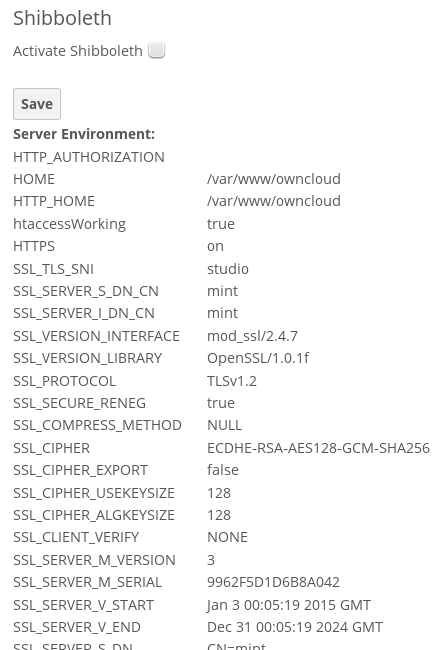
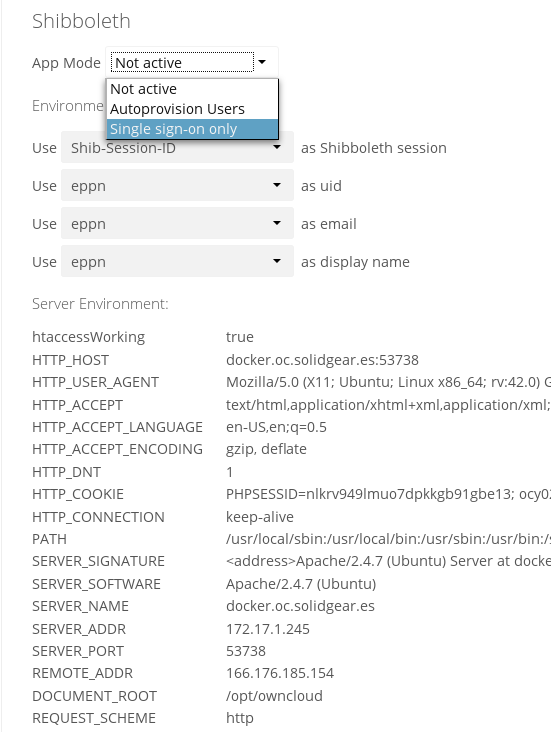
updates to shibboleth page

Changed region(s): [[0.0293, 0.0, 1.0, 1.0], [0.5563, 0.1846, 0.8198, 0.2154], [0.4392, 0.0615, 0.4685, 0.0923]]

diff --git a/admin_manual/enterprise_user_management/user_auth_shibboleth.rst b/admin_manual/enterprise_user_management/user_auth_shibboleth.rst
@@ -9,18 +9,28 @@ The ownCloud Shibboleth user backend application integrates ownCloud with a
 Shibboleth Service Provider (SP) and allows operations in federated and 
 single-sign-on infrastructures. Setting up Shibboleth has three steps:
 
-1. Create the appropriate Apache configuration
-2. Enable the Shibboleth app
-3. Enable Shibboleth on your ownCloud admin page
+1. Create the appropriate Apache configuration.
+2. Enable the Shibboleth app.
+3. Map Shibboleth environment variables to ownCloud attributes.
 
 Currently supported installations are based on the `native Apache integration`_ 
 . The individual configuration of the service provider is highly dependent on 
 the operating system, as well as on the integration with the Identity 
 Providers (IdP), and require case-by-case analysis and installation.
 
-The ownCloud Desktop Client and mobile clients can interact with an 
+The ownCloud Desktop Client can interact with an 
 ownCloud instance running inside a Shibboleth Service Provider by using built-in 
 browser components for authentication against the IdP.
+
+The regular ownCloud Android and iOS mobile apps do not work with Shibboleth.
+However, customers who create 
+:doc:`branded mobile apps with ownBrander 
+<../enterprise_clients/creating_branded_apps>`
+have the option to enable SAML authentication in ownBrander.
+
+Enterprise customers also have the option to request a regular ownCloud 
+mobile client built to use Shibboleth from their ownCloud account 
+representatives.
 
 The ownCloud desktop sync client and mobile apps store users' logins, so 
 your users only need to enter their logins the first time they set up their 
@@ -30,6 +40,7 @@ shows a test Shibboleth login screen from
 sync client.
 
 .. figure:: ../images/shib-gui1.png
+   :alt: First client login screen.
 
    *figure 1: First login screen*
    
@@ -38,6 +49,7 @@ server and login information just like it does for any other ownCloud server
 connections.
 
 .. figure:: ../images/shib-gui4.png
+   :alt: The ownCloud client shows which server you are connected to.
 
    *figure 2: ownCloud client displays server information*
    
@@ -161,51 +173,31 @@ Further Shibboleth specific configuration as defined in
 	  require valid-user
 	</Location>
 
-Application Configuration
--------------------------
+Enabling & Configurating the Shibboleth App
+-------------------------------------------
 
-After installing and enabling the Shibboleth application there are three 
-configuration variables to set up, depending on the data sent back by the 
-IdP. The configuration is stored in ``apps/user_shibboleth``.
-
-.. code-block:: php
-
-	namespace OCA\user_shibboleth {
-	        const SHIB_SESSION_ID = 'Shib-Session-ID';
-	        const SHIB_EPPN = 'eppn';
-	        const SHIB_EMAIL = 'eppn';
-	        const SHIB_DISPLAY_NAME = 'eppn';
-	}
-
-
-+---------------------+--------------------------------------------------------+
-| Parameter           | Description                                            |
-+---------------------+--------------------------------------------------------+
-| SHIB_SESSION_ID     | This constant defines the name of the environment      |
-|                     | variable holding the Shibboleth session id.            |
-+---------------------+--------------------------------------------------------+
-| SHIB_EPPN           | This constant defines the name of the environment      |
-|                     | variable which holds the EPPN (eduPersonPrincipalName).| 
-|                     | This is the unique user identifier.                    | 
-+---------------------+--------------------------------------------------------+
-| SHIB_EMAIL          | The environment variable with this given name holds the|
-|                     | email address of the logged-in user.                   |
-+---------------------+--------------------------------------------------------+
-| SHIB_DISPLAY_NAME   | This constant defines the name of the environment      |
-|                     | variable holding the user's display name.              |
-+---------------------+--------------------------------------------------------+
-
-Enabling the Shibboleth App
----------------------------
-
-You must enable the Shibboleth app on your Apps page, and then check **Activate 
-Shibboleth** and click the **Save** button on your ownCloud Admin page. The 
-system information displayed on your Admin page may be useful for 
-troubleshooting; for example you can copy and include it on a support ticket.
+You must enable the Shibboleth app on your Apps page, and then select the mode 
+you want Shibboleth to operate in from the dropdown on your Admin page, either 
+**Autoprovision Users** or **Single sign-on only**.
 
 .. figure:: ../images/shib-gui5.png
+   :alt: Shibboleth configuration screen.
 
-   *figure 3: Enabling Shibboleth on the Admin page*
+   *figure 3: Enabling Shibboleth on the Admin page*	
+
+In ownCloud 8.1 the Shibboleth variables were stored in 
+``apps/user_shibboleth/config.php``. This file was overwritten on upgrades. In 
+ownCloud 8.2 the variables are stored in the ownCloud database, so Shibboleth 
+is now automatically upgradeable.
+
+After installing and enabling the Shibboleth application there are four 
+Shibboleth environment configuration variables to map to ownCloud user 
+attributes.
+
+.. figure:: ../images/shib-gui6.png
+   :alt: Dropdowns for mapping Shibboleth environment configuration variables to ownCloud user attributes.
+
+   *figure 4: Mapping Shibboleth environment configuration variables to ownCloud user attributes*
 
 WebDAV Support
 --------------
